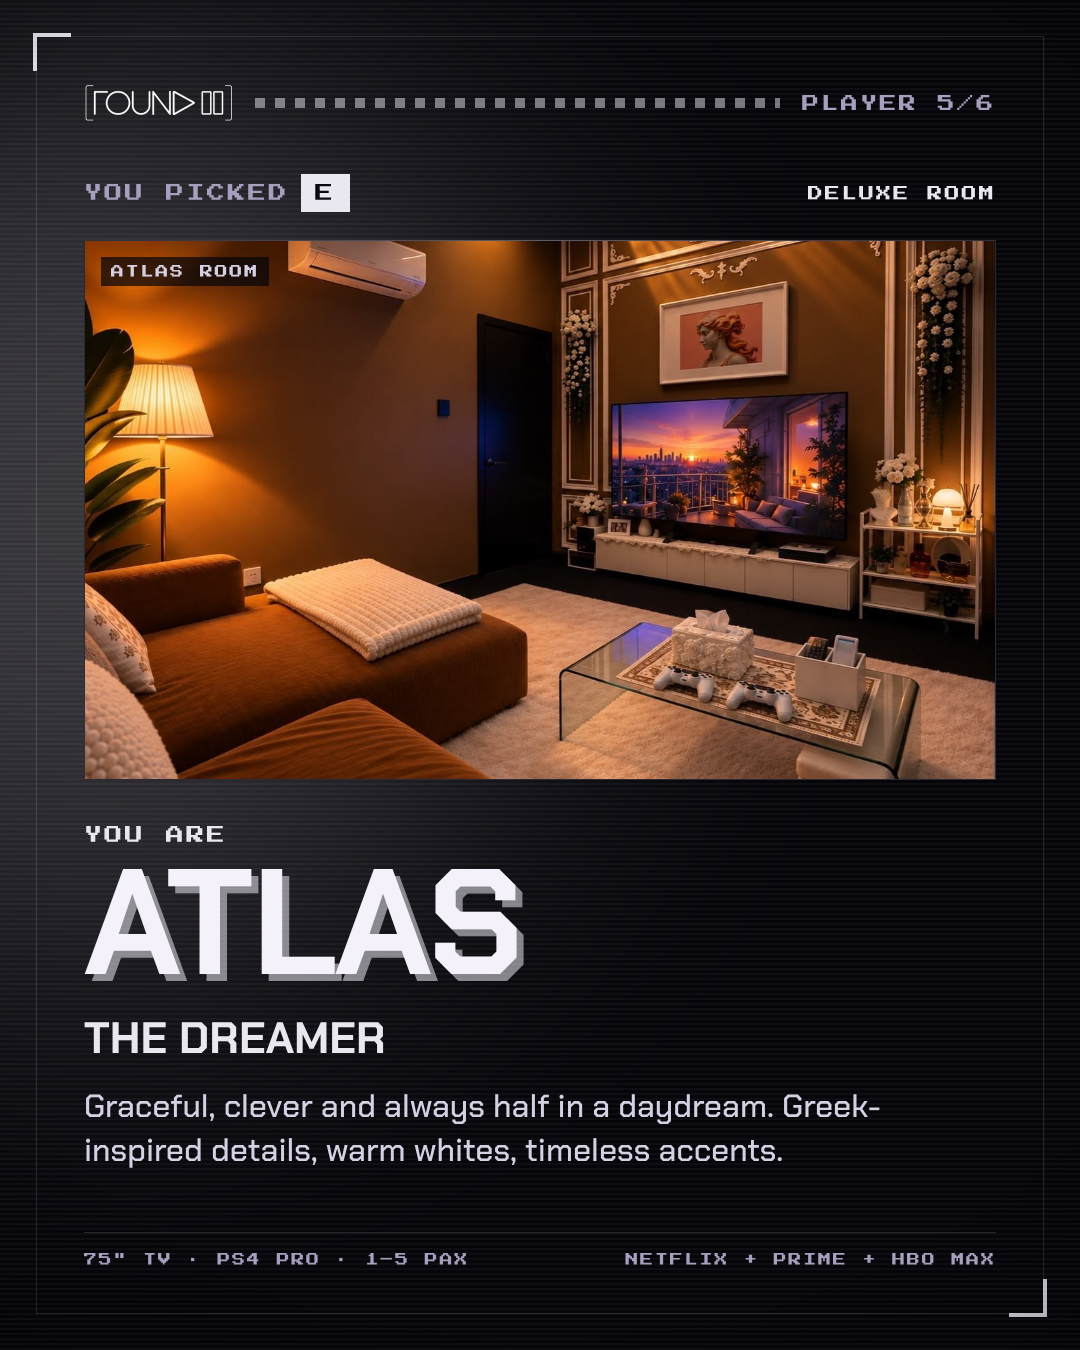
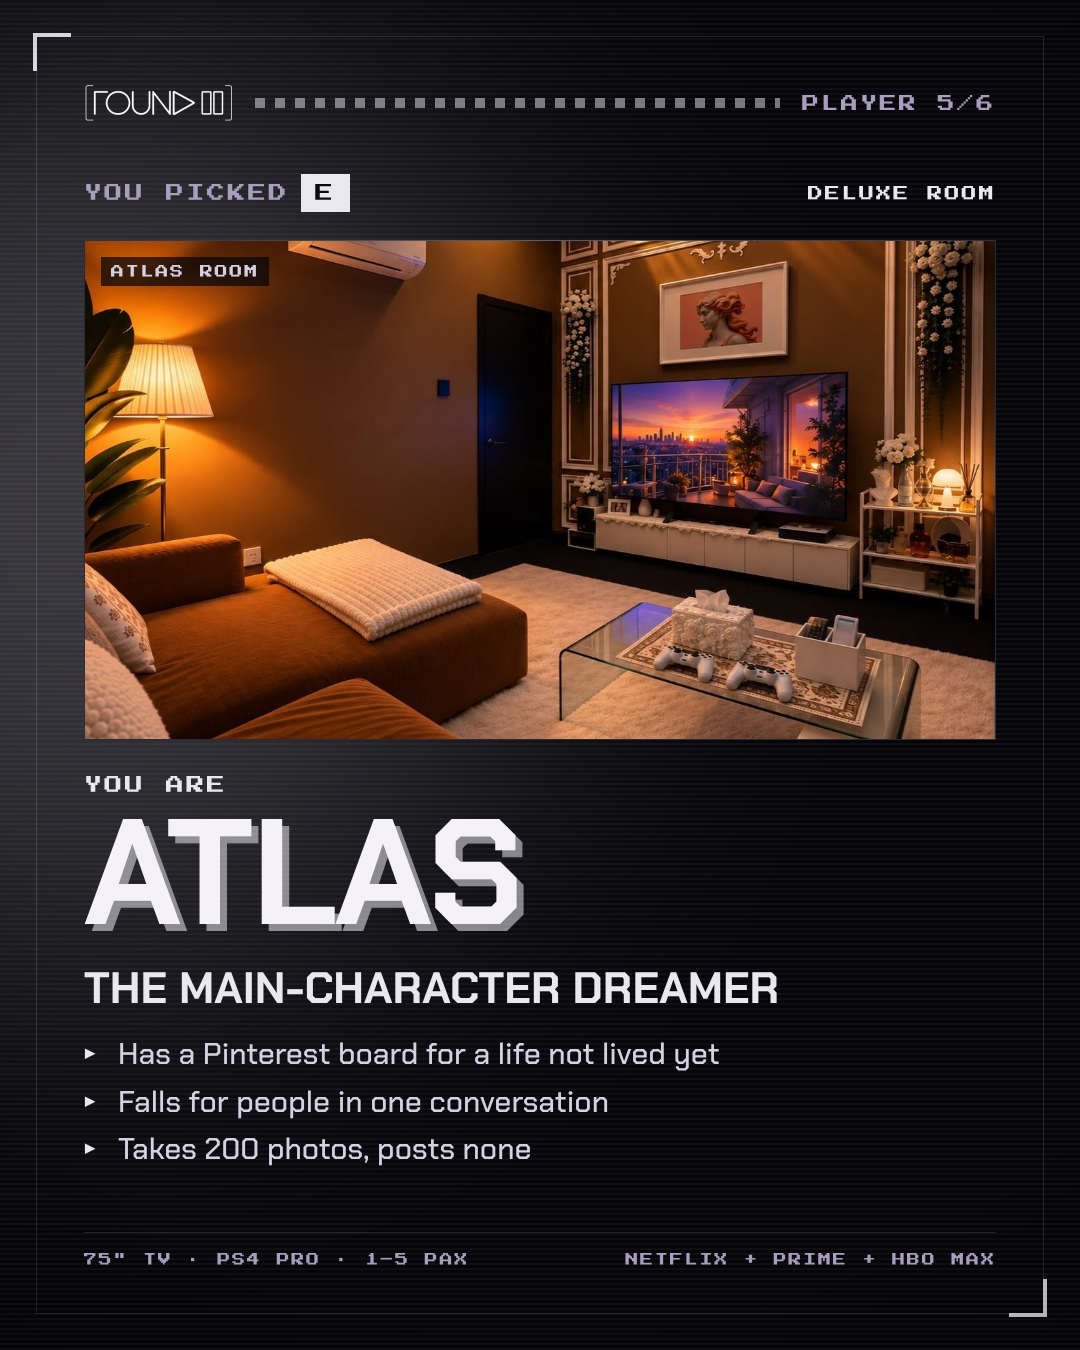
Room quiz: rooms as relatable personality types with 'who…' traits
Claude-Session: https://claude.ai/code/session_01PDkwSCLDYKchcH27nujJvW

Changed region(s): [[0.0611, 0.1556, 0.9472, 0.8711], [0.2444, 0.1556, 0.3972, 0.2489], [0.3972, 0.28, 0.4583, 0.3422]]

diff --git a/marketing/ig-room-quiz/index.html b/marketing/ig-room-quiz/index.html
@@ -54,7 +54,7 @@ body.render .blink{animation:none}
 .rk .l{font-size:18px;color:var(--mute)}
 .rk .l b{display:inline-block;margin-left:12px;padding:10px 14px;background:var(--c);color:var(--cink);font-weight:400}
 .rk .tier{font-size:15px;color:var(--c)}
-.screen{position:relative;margin-top:28px;height:540px;border:1px solid var(--line);display:flex;align-items:center;justify-content:center;
+.screen{position:relative;margin-top:28px;height:500px;border:1px solid var(--line);display:flex;align-items:center;justify-content:center;
   background:radial-gradient(80% 90% at 50% 100%,color-mix(in srgb,var(--c) 26%,transparent),transparent 70%),#0b0914}
 .sprite{display:grid}
 .screen{overflow:hidden}
@@ -62,12 +62,14 @@ body.render .blink{animation:none}
 .screen .sprite{position:relative;z-index:1}
 .screen .ptag{position:absolute;left:16px;top:16px;z-index:3;padding:8px 10px;background:rgba(6,5,10,.72);font-size:13px;color:var(--soft)}
 .sprite i{display:block}
-.you{margin-top:46px;font-size:18px;color:var(--c)}
+.you{margin-top:36px;font-size:18px;color:var(--c)}
 .nm{margin:14px 0 0;font-weight:700;font-size:150px;line-height:.86;text-transform:uppercase;letter-spacing:-.01em;
   text-shadow:7px 7px 0 color-mix(in srgb,var(--c) 55%,transparent)}
 .nm.long{font-size:116px}
 .type{margin-top:22px;font-size:44px;font-weight:700;color:var(--c);text-transform:uppercase}
-.copy{margin-top:18px;font-size:32px;line-height:1.36;color:var(--soft)}
+.traits{margin:18px 0 0;padding:0;list-style:none;display:grid;gap:10px}
+.traits li{position:relative;padding-left:34px;font-size:30px;line-height:1.25;color:var(--soft)}
+.traits li::before{content:'▶';position:absolute;left:0;top:7px;font-size:18px;color:var(--c)}
 .spec{margin-top:auto;padding-top:20px;border-top:1px solid var(--line);display:flex;justify-content:space-between;font-size:13px;color:var(--mute)}
 
 /* end */
@@ -89,18 +91,18 @@ body.render .blink{animation:none}
 /* ============================ EDIT HERE ============================ */
 // One option per room. Rooms, colours and specs come from the live site. Kaeden is left out while it's under renovation.
 const QUIZ = [
-  { k:'A', room:'Vale',        night:'Starting trouble, then ordering dessert',     type:'The Playful Rebel',
-    copy:'You start the chaos and still remember everyone’s birthday. Bauhaus pink and grey, warm light, soft at heart.', sprite:'bauhaus' },
-  { k:'B', room:'Scarlett',    night:'Lights off, stars on, deep talks till 2am',   type:'The Stargazer',
-    copy:'You’re the 2am deep-talk friend. A dark cosmic room, starlight projections and moody vibes only.', sprite:'moon' },
-  { k:'C', room:'Kai',         night:'Phone on silent, nowhere to be',              type:'The Calm One',
-    copy:'Nothing rattles you. Bonsai, stone and soft neutrals for a quiet, peaceful escape from everything.', sprite:'bonsai' },
-  { k:'D', room:'Bella',       night:'A candle, an old book, a little chaos',       type:'The Mischief Maker',
-    copy:'Sweet on the surface, plotting underneath. Mystic lore, vintage books and candlelit shadows.', sprite:'candle' },
-  { k:'E', room:'Atlas',       night:'Planning a trip to Greece you’ll never take', type:'The Dreamer',
-    copy:'Graceful, clever and always half in a daydream. Greek-inspired details, warm whites, timeless accents.', sprite:'column' },
-  { k:'F', room:'Maximillion', night:'Racing everyone to the last slice',           type:'The Speed Demon',
-    copy:'You turn everything into a race. Our biggest screen, home theatre sound and a racing sim to settle it.', sprite:'flag' },
+  { k:'A', room:'Vale',        night:'Unbothered face, loudest in the group chat', type:'The cold-girl extrovert',
+    traits:['Looks unapproachable, talks to everyone','Starts the karaoke and the drama','Secretly cries at Pixar movies'], sprite:'bauhaus' },
+  { k:'B', room:'Scarlett',    night:'Most awake at 2am',                         type:'The night-owl overthinker',
+    traits:['Sends songs instead of saying how she feels','Deep talks only after midnight','Believes in the stars, a little'], sprite:'moon' },
+  { k:'C', room:'Kai',         night:'Leaves first, sleeps best',                 type:'The calm introvert',
+    traits:['Replies “all good” and actually means it','Everyone’s unpaid therapist','Owns more plants than friends'], sprite:'bonsai' },
+  { k:'D', room:'Bella',       night:'Looks innocent, planned everything',        type:'The sweet-looking menace',
+    traits:['Started the whole plan, takes no blame','Reads tarot “for fun”, takes it seriously','Romanticises rainy days and old books'], sprite:'candle' },
+  { k:'E', room:'Atlas',       night:'Romanticises literally everything',         type:'The main-character dreamer',
+    traits:['Has a Pinterest board for a life not lived yet','Falls for people in one conversation','Takes 200 photos, posts none'], sprite:'column' },
+  { k:'F', room:'Maximillion', night:'Turns everything into a competition',       type:'The sore winner',
+    traits:['Turns Monopoly into a blood sport','Says “one more round” at 3am','Never admits a loss, asks for a rematch'], sprite:'flag' },
 ];
 /* =================================================================== */
 
@@ -157,7 +159,7 @@ function cover(){
     <div class="cv-k px"><span>Round2 quiz</span><span>6 rooms · 1 you</span></div>
     <h1 class="cv-t">Which room<br><span>are you?</span></h1>
     <div class="grid">${tiles}</div>
-    <div class="cv-f px"><span>Pick fast. No overthinking.</span><b>Swipe to reveal <span class="blink">▶</span></b></div>`, 'right:-380px;top:-300px');
+    <div class="cv-f px"><span>Pick the one that’s SO you.</span><b>Swipe to reveal <span class="blink">▶</span></b></div>`, 'right:-380px;top:-300px');
 }
 function card(q, i){
   const r = ROOMS[q.room];
@@ -167,7 +169,7 @@ function card(q, i){
     <div class="you px">You are</div>
     <h2 class="nm${q.room.length > 7 ? ' long' : ''}">${esc(q.room)}</h2>
     <div class="type">${esc(q.type)}</div>
-    <div class="copy">${esc(q.copy)}</div>
+    <ul class="traits">${q.traits.map(t => `<li>${esc(t)}</li>`).join('')}</ul>
     <div class="spec px"><span>${esc(r.spec)}</span><span>${esc(STREAM[r.tier])}</span></div>`,
     i % 2 ? 'right:-360px;top:60px' : 'left:-360px;top:60px');
 }
